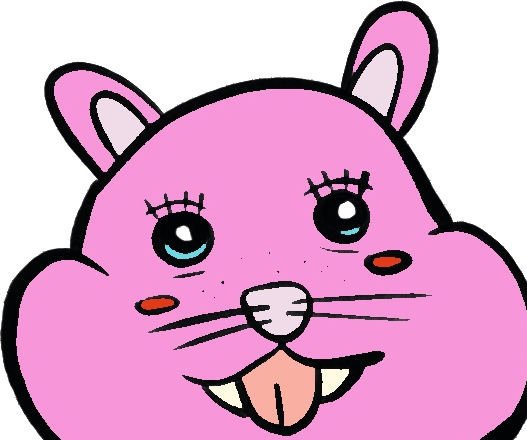
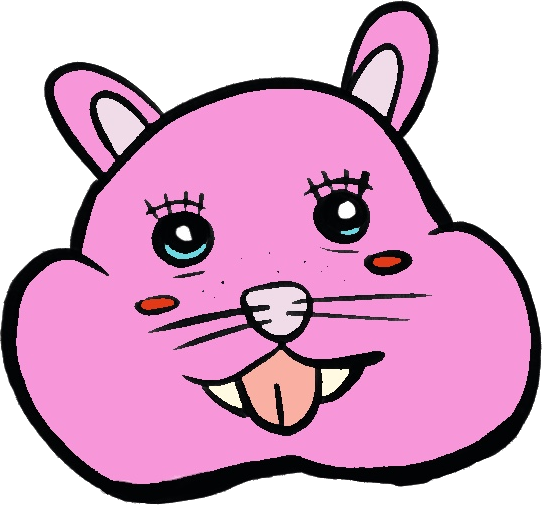
Taller reward track so the grown squirrel isn't clipped; new trace head image

diff --git a/index.html b/index.html
@@ -138,7 +138,7 @@
   .hole.bad .plank{ animation:shake .4s; }
 
   /* ---------- caterpillar reward track (shared) ---------- */
-  .track{ position:relative; width:100%; height:150px; flex:0 0 auto;
+  .track{ position:relative; width:100%; height:190px; flex:0 0 auto;
     background:linear-gradient(#cdeebf 0 60%, var(--grass) 60% 74%, var(--grass-dark) 74% 100%);
     overflow:hidden; touch-action:none; }
 
@@ -217,8 +217,8 @@
   .food-dot{ transition:transform .2s ease, opacity .2s ease;
     transform-box:fill-box; transform-origin:center; }
   .food-dot.eaten{ transform:scale(0); opacity:0; }
-  .capy-head{ position:absolute; left:50%; top:50%; width:76px; height:64px;
-    margin-left:-38px; margin-top:-32px; z-index:5; pointer-events:none;
+  .capy-head{ position:absolute; left:50%; top:50%; width:72px; height:68px;
+    margin-left:-36px; margin-top:-34px; z-index:5; pointer-events:none;
     will-change:left,top; filter:drop-shadow(0 3px 2px rgba(0,0,0,.25)); }
   .capy-head svg{ width:100%; height:100%; display:block; }
   .capy-head img{ width:100%; height:100%; object-fit:contain; display:block; -webkit-user-drag:none; }